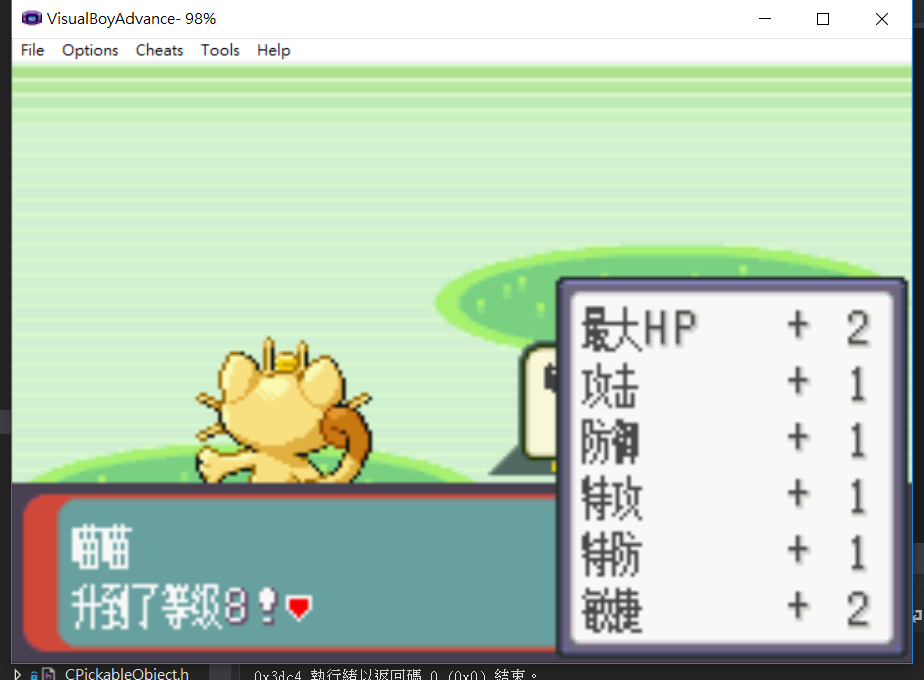
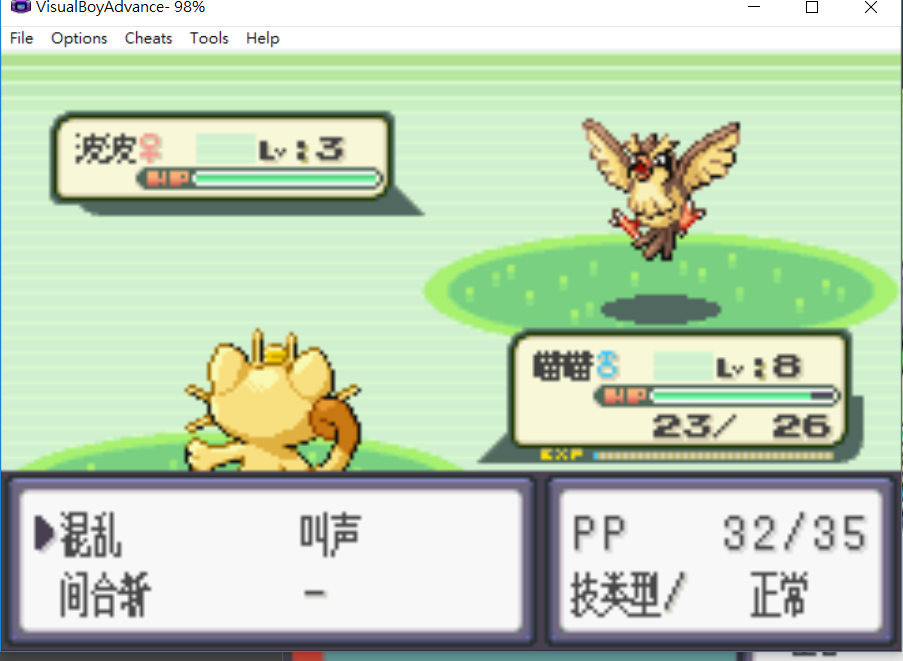
AtkInterface加上文字

diff --git a/PokemonGreen/Source/AtkInterface.h b/PokemonGreen/Source/AtkInterface.h
@@ -2,6 +2,7 @@
 
 #include <string>
 #include <vector>
+#include <set>
 #include "CHero.h"
 #include "PokemonMenu.h"
 #include "Pokemon.h"
@@ -61,26 +62,39 @@ namespace game_framework {
 	private:
 		const int LVUP_PANEL_LEFT = 385;
 		const int LVUP_PANEL_TOP = 170;
-		const int LVUP_VALUE_TOP = 195;
+		const int LVUP_VALUE_TOP = 190;
 		const int LVUP_VALUE_LEFT = 590;
 		const int LVUP_VALUE_RIGHT = 615;
 		const int LVUP_VALUE_INTERVAL = 45;
 
+		const int SKILL_LEFT = 50;
+		const int SKILL_TOP = 365;
+		const int SKILL_RIGHT = 220;
+		const int SKILL_DOWN = 415;
+
+		const int REMAINPP_RIGHT = 555;
+		const int ALLPP_LEFT = 575;
+		const int SKTYPE_LEFT = 495;
+
 		void SetAtkPm();
+		void SetSkillText();
 		int GetAddExp(Pokemon *enemy);
 		void AddExp(int order);
 		void SetValue(int order);
 		void SltPm();
+		Pokemon *FindSetFromOrder(set<Pokemon*>& lhs, int order);
 
 		int openCount = 0, cursor, enemySkill, textCount, lvupCount;
 		bool isAtk, isAnime;
-		vector<Pokemon*> joinAtkPm, lvupPm;
+		set<Pokemon*> joinAtkPm, lvupPm;
 		AtkBar myBar, enemyBar;
 		State state;
 		CMovingBitmap black, battleBackground, battleOption, battleDialog, skillOption, battleHero, battleGround[2];
 		CMovingBitmap  atkCursor, ynPanel, lvupPanel, lvupFpanel;
 		CText outcomeText;
 		CText valueUpText[6], valueFinalText[6];
+		CText remainPPText, allPPText, skTypeText;
+		vector<CText> skillText;
 		CHero *self;
 		Pokemon *enemy, *myPm;
 		PokemonMenu *pmMenu;

diff --git a/PokemonGreen/Source/AtkBar.h b/PokemonGreen/Source/AtkBar.h
@@ -2,6 +2,7 @@
 
 #include <string>
 #include "Pokemon.h"
+#include "CText.h"
 
 using namespace std;
 namespace game_framework {
@@ -32,10 +33,20 @@ namespace game_framework {
 		void ReceivePm(Pokemon *pm);
 		bool IsAddExp();
 	private:
+		const int MY_FIRST_ROW = 225;
+		const int ENE_FIRST_ROW = 45;
+		const int MY_SECOND_ROW = 275;
+		const int MY_NAME_RIGHT = 505;
+		const int ENE_NAME_RIGHT = 175;
+		const int MY_LV_LEFT = 550;
+		const int ENE_LV_LEFT = 220;
+		const int MY_RHP_RIGHT = 505;
+		const int MY_HP_LEFT = 530;
 		int x; // right
 		float rate;
 		bool isAddExp;
 		barType type;
+		CText nameText, lvText, remainHpText, allHpText;
 		CMovingBitmap myBar, enemyBar, greenHP, yellowHP, redHP, expBar;
 	};
 }
